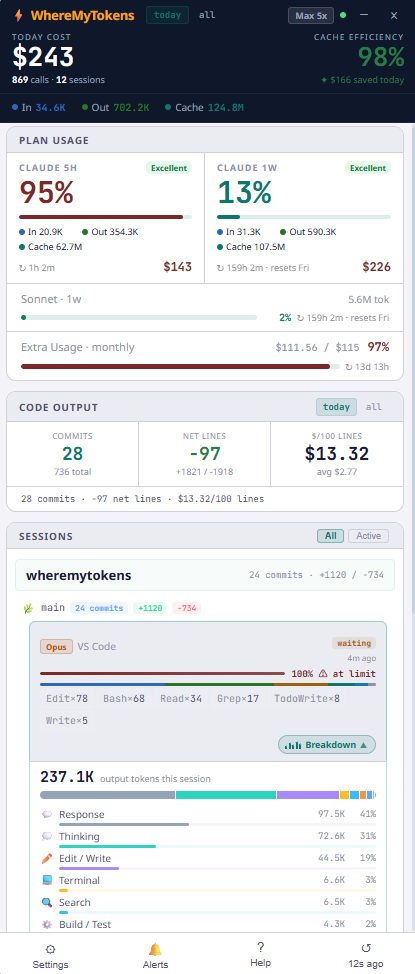
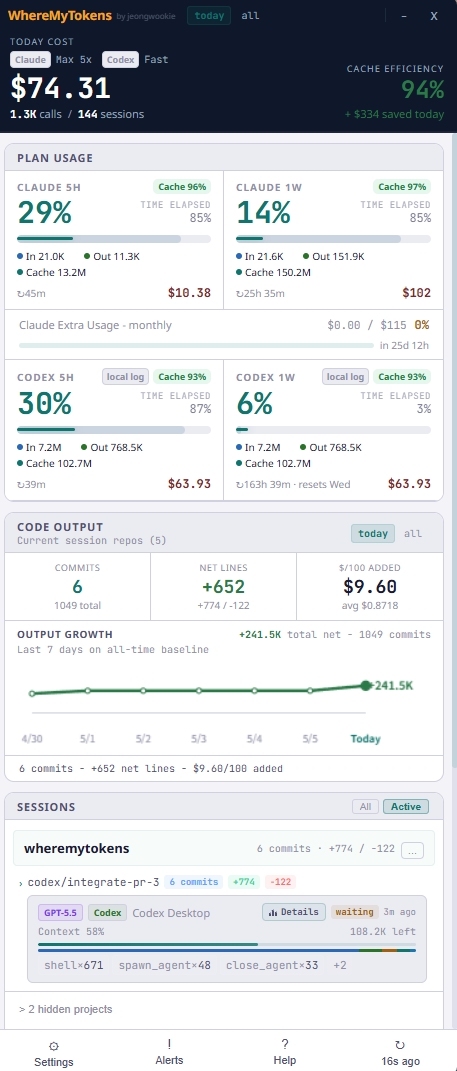
Refresh README screenshots for compact widget

diff --git a/README.es.md b/README.es.md
@@ -40,25 +40,31 @@
 
 <table>
   <tr>
-    <th width="50%">Modo Claro</th>
-    <th width="50%">Modo Oscuro</th>
+    <th width="50%">Panel oscuro</th>
+    <th width="50%">Panel claro</th>
   </tr>
   <tr>
-    <td><img src="assets/screenshot-light.png" alt="Light mode" /></td>
-    <td><img src="assets/screenshot-dark.png" alt="Dark mode" /></td>
+    <td><img src="assets/screenshot-dark.png" alt="Dark dashboard" /></td>
+    <td><img src="assets/screenshot-light.png" alt="Light dashboard" /></td>
   </tr>
 </table>
 
 <table>
   <tr>
-    <th width="33%">Rhythm y Estadísticas Pico</th>
-    <th width="33%">Mapa de Calor 7 Días</th>
-    <th width="33%">Configuración</th>
+    <th width="50%">Widget compacto</th>
+    <th width="50%">Uso por modelo</th>
+  </tr>
+  <tr>
+    <td><img src="assets/screenshot-widget.png" alt="Compact quota pace widget" /></td>
+    <td><img src="assets/screenshot-model-usage.png" alt="Model usage breakdown" /></td>
+  </tr>
+  <tr>
+    <th width="50%">Rhythm y estadísticas pico</th>
+    <th width="50%">Mapa de actividad</th>
   </tr>
   <tr>
     <td><img src="assets/screenshot-rhythm.png" alt="Rhythm tab" /></td>
-    <td><img src="assets/screenshot-heatmap.png" alt="7-day heatmap" /></td>
-    <td><img src="assets/screenshot-settings.png" alt="Settings" /></td>
+    <td><img src="assets/screenshot-heatmap.png" alt="Activity heatmap" /></td>
   </tr>
 </table>
 
@@ -110,6 +116,7 @@ Al descargar o instalar, aceptas el [Acuerdo de Licencia de Usuario Final (EULA)
 
 ### Límites de Uso y Alertas
 - **Barras de límite de uso** — Claude 5h/1sem desde Anthropic API/statusLine; Codex 5h/1sem desde eventos locales de rate-limit en los logs
+- **Vista Quota Pace** — compara el % de cuota usado con el % de tiempo transcurrido; amarillo/rojo indica que el ritmo va por delante de la ventana de reset
 - **Puente Claude Code** — regístrate como plugin `statusLine` para datos en tiempo real sin sondeo de API
 - **Notificaciones de Windows** — en umbrales de uso configurables (50% / 80% / 90%)
 - **Presupuesto Claude Extra Usage** — créditos mensuales de Claude usados / límite / utilización %
@@ -134,7 +141,7 @@ Al descargar o instalar, aceptas el [Acuerdo de Licencia de Usuario Final (EULA)
 ### Personalización
 - **Tema Auto/Claro/Oscuro** — sigue la preferencia del sistema por defecto
 - **Visualización de costos** — USD o KRW con tasa de cambio configurable
-- **Widget siempre visible** — permanece encima; minimiza vía botón del encabezado, icono de bandeja o atajo global
+- **Floating usage widget** — ventana compacta de Quota Pace con soporte always-on-top; muéstrala u ocúltala desde el menú de bandeja, Settings o los controles del widget
 - **Etiqueta de bandeja** — muestra % de uso, cantidad de tokens o costo directamente en la barra de tareas
 - **Gestión de proyectos** — oculta o excluye completamente proyectos del seguimiento
 - **Iniciar con Windows** — inicio automático opcional
@@ -155,6 +162,7 @@ Haz clic en el icono de la bandeja (o presiona el atajo global `Ctrl+Shift+D`).
 - **Alertas** — establece umbrales de uso (50% / 80% / 90%)
 - **Tema** — Auto (sigue el sistema) / Claro / Oscuro
 - **Etiqueta de bandeja** — elige qué mostrar en la barra de tareas
+- **Floating usage widget** — activa la ventana compacta de Quota Pace; luego puedes mostrarla u ocultarla con clic derecho en el icono de bandeja
 
 ---
 

diff --git a/README.ja.md b/README.ja.md
@@ -40,25 +40,31 @@
 
 <table>
   <tr>
-    <th width="50%">ライトモード</th>
-    <th width="50%">ダークモード</th>
+    <th width="50%">ダークダッシュボード</th>
+    <th width="50%">ライトダッシュボード</th>
   </tr>
   <tr>
-    <td><img src="assets/screenshot-light.png" alt="Light mode" /></td>
-    <td><img src="assets/screenshot-dark.png" alt="Dark mode" /></td>
+    <td><img src="assets/screenshot-dark.png" alt="Dark dashboard" /></td>
+    <td><img src="assets/screenshot-light.png" alt="Light dashboard" /></td>
   </tr>
 </table>
 
 <table>
   <tr>
-    <th width="33%">Rhythm & ピーク統計</th>
-    <th width="33%">7 日間ヒートマップ</th>
-    <th width="33%">設定</th>
+    <th width="50%">コンパクトウィジェット</th>
+    <th width="50%">モデル別使用量</th>
+  </tr>
+  <tr>
+    <td><img src="assets/screenshot-widget.png" alt="Compact quota pace widget" /></td>
+    <td><img src="assets/screenshot-model-usage.png" alt="Model usage breakdown" /></td>
+  </tr>
+  <tr>
+    <th width="50%">Rhythm & ピーク統計</th>
+    <th width="50%">アクティビティヒートマップ</th>
   </tr>
   <tr>
     <td><img src="assets/screenshot-rhythm.png" alt="Rhythm tab" /></td>
-    <td><img src="assets/screenshot-heatmap.png" alt="7-day heatmap" /></td>
-    <td><img src="assets/screenshot-settings.png" alt="Settings" /></td>
+    <td><img src="assets/screenshot-heatmap.png" alt="Activity heatmap" /></td>
   </tr>
 </table>
 
@@ -110,6 +116,7 @@
 
 ### レート制限 & アラート
 - **レート制限バー** — Claude 5h/1w は Anthropic API/statusLine、Codex 5h/1w はローカル Codex rate-limit ログイベントを使用
+- **Quota Pace 表示** — 使用済み % と経過時間 % を比較し、黄色/赤でリセット前に消費ペースが速い状態を知らせます
 - **Claude Code ブリッジ** — `statusLine` プラグインで API ポーリングなしのリアルタイムデータ受信
 - **Windows トースト通知** — 使用量しきい値（50% / 80% / 90%）でアラート
 - **Claude Extra Usage 予算** — Claude 月間クレジット使用量 / 上限 / 利用率
@@ -134,7 +141,7 @@
 ### カスタマイズ
 - **Auto/Light/Dark テーマ** — デフォルトはシステム設定に従う
 - **コスト表示** — USD または KRW、為替レート設定可能
-- **常に最前面ウィジェット** — 他のウィンドウの上に固定；ヘッダーボタン、トレイアイコン、グローバルホットキーで最小化
+- **Floating usage widget** — 常に最前面設定に従う小さな Quota Pace ウィンドウ；トレイメニュー、Settings、ウィジェットボタンから表示/非表示を切替
 - **トレイラベル** — 使用量 %、トークン数、コストを直接表示
 - **プロジェクト管理** — 非表示または追跡から完全除外
 - **Windows 起動時に自動起動** — オプション
@@ -155,6 +162,7 @@
 - **アラート** — 使用量しきい値の設定（50% / 80% / 90%）
 - **テーマ** — Auto（システム設定に従う）/ Light / Dark
 - **トレイラベル** — タスクバーに表示する情報を選択
+- **Floating usage widget** — 小さな Quota Pace ウィンドウを有効化できます。あとからトレイアイコンの右クリックで表示/非表示を切り替えられます
 
 ---
 

diff --git a/README.md b/README.md
@@ -40,25 +40,31 @@
 
 <table>
   <tr>
-    <th width="50%">Light Mode</th>
-    <th width="50%">Dark Mode</th>
+    <th width="50%">Dark Dashboard</th>
+    <th width="50%">Light Dashboard</th>
   </tr>
   <tr>
-    <td><img src="assets/screenshot-light.png" alt="Light mode dashboard" /></td>
     <td><img src="assets/screenshot-dark.png" alt="Dark mode dashboard" /></td>
+    <td><img src="assets/screenshot-light.png" alt="Light mode dashboard" /></td>
   </tr>
 </table>
 
 <table>
   <tr>
-    <th width="33%">Rhythm & Peak Stats</th>
-    <th width="33%">7-Day Heatmap</th>
-    <th width="33%">Settings</th>
+    <th width="50%">Compact Widget</th>
+    <th width="50%">Model Usage</th>
   </tr>
   <tr>
-    <td><img src="assets/screenshot-rhythm.png" alt="Rhythm tab" /></td>
-    <td><img src="assets/screenshot-heatmap.png" alt="7-day heatmap" /></td>
-    <td><img src="assets/screenshot-settings.png" alt="Settings" /></td>
+    <td><img src="assets/screenshot-widget.png" alt="Compact quota pace widget" /></td>
+    <td><img src="assets/screenshot-model-usage.png" alt="Model usage breakdown" /></td>
+  </tr>
+  <tr>
+    <th width="50%">Rhythm & Peak Stats</th>
+    <th width="50%">Activity Heatmap</th>
+  </tr>
+  <tr>
+    <td><img src="assets/screenshot-rhythm.png" alt="Rhythm tab with peak stats" /></td>
+    <td><img src="assets/screenshot-heatmap.png" alt="Activity heatmap" /></td>
   </tr>
 </table>
 
@@ -111,6 +117,7 @@ By downloading or installing, you agree to the [End-User License Agreement (EULA
 
 ### Rate Limits & Alerts
 - **Rate limit bars** — Claude 5h/1w limits from Anthropic API/statusLine; Codex 5h/1w limits from local Codex rate-limit log events when available
+- **Quota Pace view** — compares used quota % with elapsed window %; yellow/red means your burn rate is ahead of the reset window
 - **Claude Code bridge** — register as a `statusLine` plugin for live rate limit data without API polling
 - **Windows toast notifications** — at configurable usage thresholds (50% / 80% / 90%)
 - **Claude Extra Usage budget** — Claude monthly credits used / limit / utilization %
@@ -135,7 +142,7 @@ By downloading or installing, you agree to the [End-User License Agreement (EULA
 ### Customization
 - **Auto/Light/Dark theme** — follows system preference by default
 - **Cost display** — USD or KRW with configurable exchange rate
-- **Always-on-top widget** — stays visible; minimize via header button, tray icon, or global hotkey
+- **Floating usage widget** — compact Quota Pace window with always-on-top support; show/hide it from the tray menu, Settings, or widget controls
 - **Tray label** — show usage %, token count, or cost directly in the taskbar
 - **Project management** — hide or fully exclude projects from tracking
 - **Start with Windows** — optional auto-launch at login
@@ -156,6 +163,7 @@ Click the tray icon (or press the global shortcut `Ctrl+Shift+D`).
 - **Alerts** — set usage thresholds (50% / 80% / 90%)
 - **Theme** — Auto (follows system) / Light / Dark
 - **Tray label** — choose what to display in the taskbar
+- **Floating usage widget** — enable the compact Quota Pace window; right-click the tray icon to show or hide it later
 
 ---
 

diff --git a/README.ko.md b/README.ko.md
@@ -40,25 +40,31 @@
 
 <table>
   <tr>
-    <th width="50%">라이트 모드</th>
-    <th width="50%">다크 모드</th>
+    <th width="50%">다크 대시보드</th>
+    <th width="50%">라이트 대시보드</th>
   </tr>
   <tr>
-    <td><img src="assets/screenshot-light.png" alt="Light mode" /></td>
-    <td><img src="assets/screenshot-dark.png" alt="Dark mode" /></td>
+    <td><img src="assets/screenshot-dark.png" alt="Dark dashboard" /></td>
+    <td><img src="assets/screenshot-light.png" alt="Light dashboard" /></td>
   </tr>
 </table>
 
 <table>
   <tr>
-    <th width="33%">Rhythm & 피크 통계</th>
-    <th width="33%">7일 히트맵</th>
-    <th width="33%">설정</th>
+    <th width="50%">컴팩트 위젯</th>
+    <th width="50%">모델별 사용량</th>
+  </tr>
+  <tr>
+    <td><img src="assets/screenshot-widget.png" alt="Compact quota pace widget" /></td>
+    <td><img src="assets/screenshot-model-usage.png" alt="Model usage breakdown" /></td>
+  </tr>
+  <tr>
+    <th width="50%">Rhythm & 피크 통계</th>
+    <th width="50%">활동 히트맵</th>
   </tr>
   <tr>
     <td><img src="assets/screenshot-rhythm.png" alt="Rhythm tab" /></td>
-    <td><img src="assets/screenshot-heatmap.png" alt="7-day heatmap" /></td>
-    <td><img src="assets/screenshot-settings.png" alt="Settings" /></td>
+    <td><img src="assets/screenshot-heatmap.png" alt="Activity heatmap" /></td>
   </tr>
 </table>
 
@@ -110,6 +116,7 @@
 
 ### 속도 제한 & 알림
 - **속도 제한 바** — Claude 5h/1w는 Anthropic API/statusLine 기준, Codex 5h/1w는 로컬 Codex rate-limit 로그 이벤트 기준
+- **Quota Pace 보기** — 사용한 한도 %와 경과 시간 %를 비교해, 노랑/빨강으로 리셋 전 사용 속도가 빠른 상태를 알려줌
 - **Claude Code 브리지** — `statusLine` 플러그인으로 API 폴링 없이 실시간 데이터 수신
 - **Windows 토스트 알림** — 사용량 임계값(50% / 80% / 90%)에서 알림
 - **Claude Extra Usage 예산** — Claude 월간 크레딧 사용량 / 한도 / 이용률 표시
@@ -134,7 +141,7 @@
 ### 커스터마이징
 - **Auto/Light/Dark 테마** — 기본값은 시스템 설정 따름
 - **비용 표시** — USD 또는 KRW, 환율 설정 가능
-- **항상 위 위젯** — 다른 창 위에 고정; 헤더 버튼, 트레이 아이콘, 전역 단축키로 최소화
+- **Floating usage widget** — 항상 위 옵션을 따르는 작은 Quota Pace 창; 트레이 메뉴, Settings, 위젯 버튼에서 표시/숨김 가능
 - **트레이 라벨** — 사용량 %, 토큰 수, 비용 직접 표시
 - **프로젝트 관리** — 숨기기 또는 추적에서 완전 제외
 - **Windows 시작 시 자동 실행** — 선택적 자동 실행
@@ -155,6 +162,7 @@
 - **알림** — 사용량 임계값 설정 (50% / 80% / 90%)
 - **테마** — Auto (시스템 설정 따름) / Light / Dark
 - **트레이 라벨** — 작업표시줄에 표시할 정보 선택
+- **Floating usage widget** — 작은 Quota Pace 창을 켤 수 있고, 이후 트레이 아이콘 우클릭으로 다시 표시/숨김 가능
 
 ---
 

diff --git a/README.zh-CN.md b/README.zh-CN.md
@@ -40,25 +40,31 @@
 
 <table>
   <tr>
-    <th width="50%">浅色模式</th>
-    <th width="50%">深色模式</th>
+    <th width="50%">深色仪表板</th>
+    <th width="50%">浅色仪表板</th>
   </tr>
   <tr>
-    <td><img src="assets/screenshot-light.png" alt="Light mode" /></td>
-    <td><img src="assets/screenshot-dark.png" alt="Dark mode" /></td>
+    <td><img src="assets/screenshot-dark.png" alt="Dark dashboard" /></td>
+    <td><img src="assets/screenshot-light.png" alt="Light dashboard" /></td>
   </tr>
 </table>
 
 <table>
   <tr>
-    <th width="33%">Rhythm 与峰值统计</th>
-    <th width="33%">7 天热力图</th>
-    <th width="33%">设置</th>
+    <th width="50%">紧凑小部件</th>
+    <th width="50%">模型使用量</th>
+  </tr>
+  <tr>
+    <td><img src="assets/screenshot-widget.png" alt="Compact quota pace widget" /></td>
+    <td><img src="assets/screenshot-model-usage.png" alt="Model usage breakdown" /></td>
+  </tr>
+  <tr>
+    <th width="50%">Rhythm 与峰值统计</th>
+    <th width="50%">活动热力图</th>
   </tr>
   <tr>
     <td><img src="assets/screenshot-rhythm.png" alt="Rhythm tab" /></td>
-    <td><img src="assets/screenshot-heatmap.png" alt="7-day heatmap" /></td>
-    <td><img src="assets/screenshot-settings.png" alt="Settings" /></td>
+    <td><img src="assets/screenshot-heatmap.png" alt="Activity heatmap" /></td>
   </tr>
 </table>
 
@@ -110,6 +116,7 @@
 
 ### 速率限制与提醒
 - **速率限制条** — Claude 5h/1w 来自 Anthropic API/statusLine；Codex 5h/1w 来自本地 Codex rate-limit 日志事件
+- **Quota Pace 视图** — 对比已用额度 % 与已过时间 %，黄色/红色表示消耗速度快于重置窗口
 - **Claude Code 桥接** — 注册为 `statusLine` 插件，无需 API 轮询即可获取实时数据
 - **Windows 通知** — 在可配置的使用阈值（50% / 80% / 90%）时弹出提醒
 - **Claude Extra Usage 预算** — Claude 月度额度使用量 / 限额 / 利用率
@@ -134,7 +141,7 @@
 ### 个性化
 - **Auto/Light/Dark 主题** — 默认跟随系统偏好
 - **费用显示** — USD 或 KRW，可配置汇率
-- **置顶小部件** — 始终悬浮；通过标题栏按钮、托盘图标或全局快捷键最小化
+- **Floating usage widget** — 小型 Quota Pace 悬浮窗口，遵循置顶设置；可从托盘菜单、Settings 或小部件按钮显示/隐藏
 - **托盘标签** — 在任务栏直接显示使用率 %、令牌数或费用
 - **项目管理** — 隐藏或完全排除项目
 - **随 Windows 启动** — 可选自动启动
@@ -155,6 +162,7 @@
 - **提醒** — 设置使用阈值（50% / 80% / 90%）
 - **主题** — Auto（跟随系统）/ Light / Dark
 - **托盘标签** — 选择任务栏显示内容
+- **Floating usage widget** — 启用小型 Quota Pace 窗口；之后可右键托盘图标显示或隐藏
 
 ---
 
